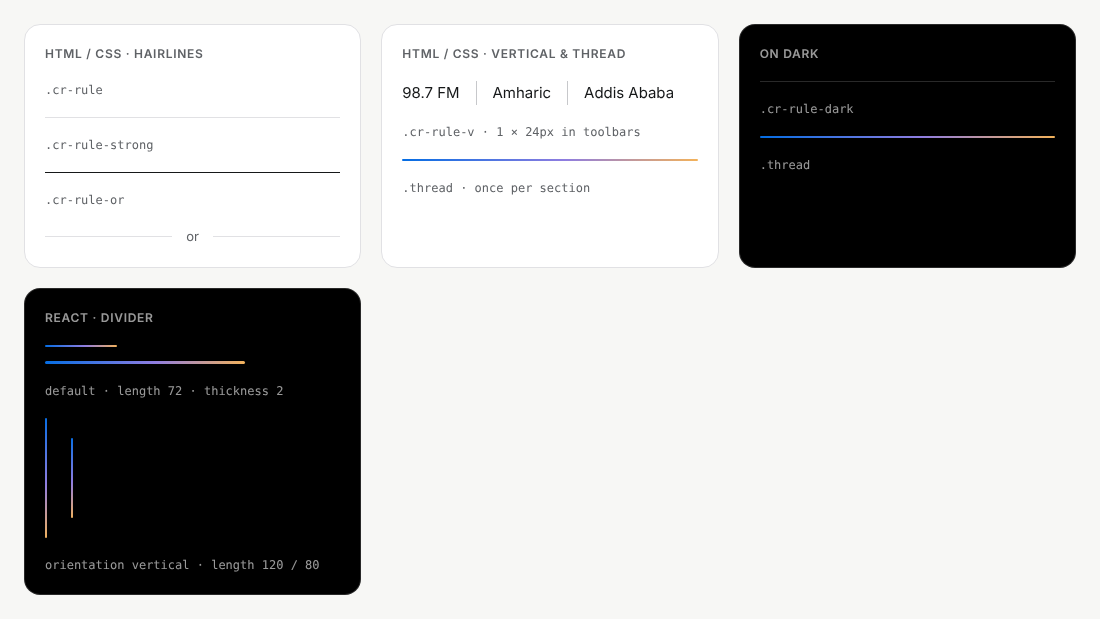
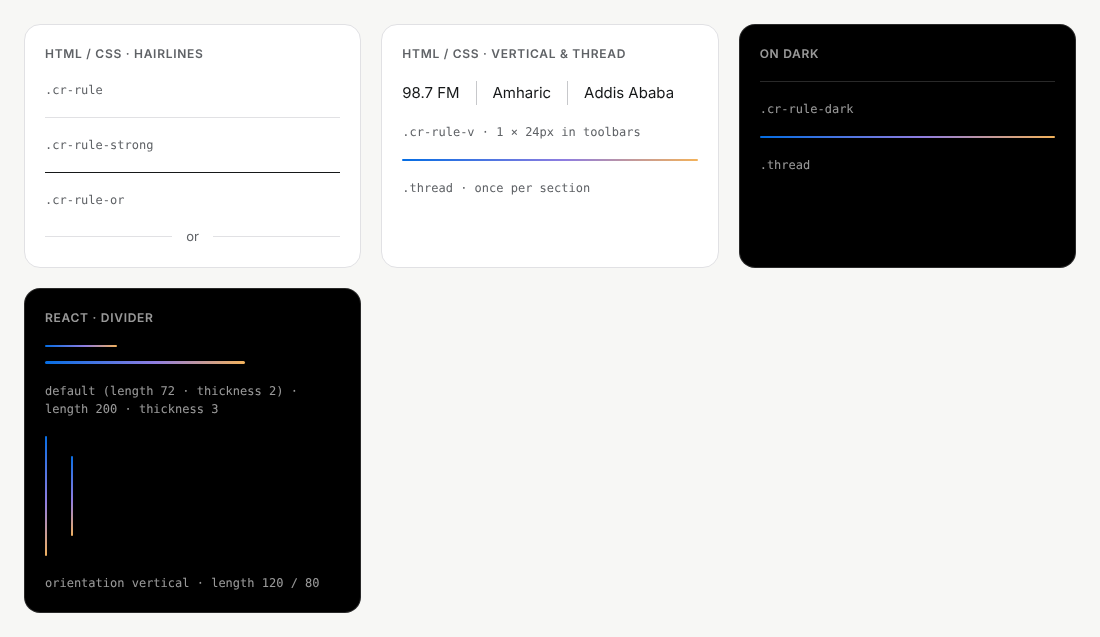
Render React specimens from the current @ism/ui source
The 13 previews with React specimens (AccentBar, Badge, Button, Card, Chip,
Divider, Eyebrow, Footer, IconButton, Input, Link, ListRow, SiteHeader) used
the stale legacy bundle, so the screenshots showed the old React look and the
SiteHeader/Footer logos were broken images.

- build-previews.mjs bundles packages/react/src with esbuild into
  docs/previews/vendor/ism-ui.js (IIFE, window.ISMUI), with react, react-dom
  and react/jsx-runtime mapped to the vendored React 18 globals. Deterministic,
  offline. The legacy bundle is no longer copied into docs/previews.
- Previews updated to the current component APIs (SiteHeader navigation,
  Footer columns, ChipGroup, IconButton, Link, Button icon), with real logos.
- Screenshot hashes now also cover packages/react/src, so component changes
  mark screenshots stale.
- Input on dark: .field>.input.fm-sub-input no longer stretches to 240px tall,
  and its label is readable on dark sections.
- esbuild is a declared root devDependency.
- Screenshots regenerated; npm run check passes.

Claude-Session: https://claude.ai/code/session_01S2rNQp6Xssw6p2iUmgAXK4

diff --git a/components/Footer/preview.html b/components/Footer/preview.html
@@ -16,7 +16,7 @@
 <div class="pv">
   <div class="pv-col">
     <div class="pv-sec">
-      <span class="pv-lbl">React · &lt;Footer /&gt; from the component bundle · shown at 78%</span>
+      <span class="pv-lbl">React · &lt;Footer /&gt; from @ism/ui · same content as the HTML footer below · shown at 78%</span>
       <div class="pv-zoom" id="nv-react-footer"></div>
     </div>
     <div class="pv-sec">
@@ -110,9 +110,25 @@
 <script>
 (function(){
   try{
-    var ns=window.ISMDesignSystem_106e83;
+    var ns=window.ISMUI;
     if(ns&&ns.Footer&&window.React&&window.ReactDOM){
-      ReactDOM.createRoot(document.getElementById('nv-react-footer')).render(React.createElement(ns.Footer,{ctaText:'Help deliver the Bible beyond every barrier.',ctaLabel:'Support Bible Access'}));
+      var h=React.createElement;
+      function col(heading,labels){ return {heading:heading,links:labels.map(function(l){ return {label:l,href:'#'}; })}; }
+      // Reuse the social glyphs of the HTML footer below.
+      var socials=[].map.call(document.querySelectorAll('.nv-foot .nv-socials')[0].children,function(a){
+        var svg=a.querySelector('svg');
+        return {name:a.getAttribute('aria-label'),href:'#',icon:h('svg',{viewBox:svg.getAttribute('viewBox'),'aria-hidden':true,dangerouslySetInnerHTML:{__html:svg.innerHTML}})};
+      });
+      ReactDOM.createRoot(document.getElementById('nv-react-footer')).render(h(ns.Footer,{logoSrc:'../../assets/logos/Full%20Logo%20Black.svg',logoHref:'#',
+        ctaText:'Help deliver the Bible beyond every barrier.',ctaLabel:'Support Bible Access',ctaHref:'#',
+        tagline:'Delivering unhindered access to the Bible until everyone can engage with Scripture in their own language, without barriers.',
+        socials:socials,
+        columns:[col('About',['About ISM','Our Mission','Our Team','Statement of Faith',"FAQ's"]),
+          col('Platforms',['dot.Bible App','ISM Radio','ISM Publishing','TAP Cards','Global Bible Network']),
+          col('Get Involved',['Give Online','Join The Mission','Partner With Us','Newsletter','Contact'])],
+        legal:['© 2026 – International Scripture Ministries Inc','ISM is a 501(c)(3) nonprofit organization. All donations are tax-deductible.'],
+        legalLinks:[{label:'Cookie Policy',href:'#'},{label:'Terms',href:'#'},{label:'Privacy',href:'#'}],
+        cookieSettingsLabel:'Cookie settings',onCookieSettings:function(){}}));
     }
   }catch(e){}
 })();

diff --git a/components/SiteHeader/preview.html b/components/SiteHeader/preview.html
@@ -18,7 +18,7 @@ body{margin:0}
 <div class="pv">
 
   <div class="pv-sec">
-    <span class="pv-lbl">React · &lt;SiteHeader /&gt; from the component bundle</span>
+    <span class="pv-lbl">React · &lt;SiteHeader /&gt; from @ism/ui · same navigation as the HTML bar below</span>
     <div id="nv-react" style="border-radius:12px;overflow:hidden;min-height:66px;background:var(--black)"></div>
   </div>
 
@@ -127,9 +127,20 @@ body{margin:0}
 (function(){
   var el=document.getElementById('nv-react');
   try{
-    var ns=window.ISMDesignSystem_106e83;
+    var ns=window.ISMUI;
     if(ns&&ns.SiteHeader&&window.React&&window.ReactDOM){
-      ReactDOM.createRoot(el).render(React.createElement(ns.SiteHeader));
+      var h=React.createElement;
+      var heart=h('svg',{width:15,height:15,viewBox:'0 0 24 24',fill:'currentColor','aria-hidden':true},h('path',{d:'M12 21s-7.5-4.6-9.6-9.4C1 8.4 3 5 6.4 5c2 0 3.6 1.1 4.6 2.6h2C14 6.1 15.6 5 17.6 5 21 5 23 8.4 21.6 11.6 19.5 16.4 12 21 12 21z'}));
+      ReactDOM.createRoot(el).render(h(ns.SiteHeader,{className:'nv-static',logoHref:'#',logoSrc:'../../assets/logos/Logo%20Black.svg',
+        give:h('a',{className:'btn btn-light btn-sm nv-give',href:'#'},heart,'Give'),
+        navigation:[
+          {label:'About ISM',href:'#',current:true,children:[{label:'Mission & Vision',href:'#'},{label:'Core Values',href:'#'},{label:'Our Team',href:'#'},{label:'Statement of Faith',href:'#'}]},
+          {label:'Resources',href:'#',overviewLabel:'Resources overview',overviewDescription:'All programs in one place',children:[
+            {label:'dot.Bible App',href:'#',description:'Free Bible apps in 500+ languages'},{label:'HD Radio Broadcast',href:'#',description:'Scripture on the airwaves'},
+            {label:'ISM Publishing',href:'#',description:'Print Bibles and study resources'},{label:'Share with NFC Cards',href:'#',description:'Tap a card to open the Bible'}]},
+          {label:'Global Network',href:'#'},
+          {label:'Join The Mission',href:'#',children:[{label:'Give Online',href:'#'},{label:'Partner With Us',href:'#'},{label:'Newsletter',href:'#'}]},
+          {label:'Contact',href:'#'}]}));
     }
   }catch(e){}
   var parents=document.querySelectorAll('.nv-dparent');

diff --git a/components/Chip/preview.html b/components/Chip/preview.html
@@ -29,9 +29,9 @@ body{margin:0;padding:24px;background:var(--off-white)}
     <span class="pv-c">single choice · sample amounts</span>
   </div>
   <div class="pv-box">
-    <span class="pv-h">React · className</span>
+    <span class="pv-h">React · ChipGroup</span>
     <div class="pv-row" id="r-chips"></div>
-    <span class="pv-c">no dedicated component: state drives aria-pressed</span>
+    <span class="pv-c">mode="multiple" · each Chip sets aria-pressed · click to try</span>
   </div>
 </div>
 <script>
@@ -44,17 +44,10 @@ body{margin:0;padding:24px;background:var(--off-white)}
     });
   }
   single('h-chips'); single('h-amt');
-  var NS = window.ISMDesignSystem_106e83; if(!NS || !window.React || !window.ReactDOM) return;
+  var NS = window.ISMUI; if(!NS || !window.React || !window.ReactDOM) return;
   var h = React.createElement;
-  function Langs(){
-    var s = React.useState(['Amharic']); var sel = s[0], set = s[1];
-    return h(React.Fragment,null,['Amharic','Burmese','Cebuano','Swahili'].map(function(l){
-      var on = sel.indexOf(l) > -1;
-      return h('button',{key:l,type:'button',className:'chip','aria-pressed':on ? 'true' : 'false',
-        onClick:function(){ set(on ? sel.filter(function(x){return x!==l;}) : sel.concat(l)); } },l);
-    }));
-  }
-  ReactDOM.createRoot(document.getElementById('r-chips')).render(h(Langs));
+  ReactDOM.createRoot(document.getElementById('r-chips')).render(h(NS.ChipGroup,{mode:'multiple','aria-label':'Languages',defaultValue:['Amharic'],
+    options:['Amharic','Burmese','Cebuano','Swahili'].map(function(l){ return {value:l,label:l}; })}));
 })();
 </script>
 </body></html>

diff --git a/components/IconButton/preview.html b/components/IconButton/preview.html
@@ -30,20 +30,20 @@ body{margin:0;padding:24px;background:var(--off-white)}
     </div>
   </div>
   <div class="pv-box">
-    <span class="pv-h">React · className</span>
+    <span class="pv-h">React · IconButton</span>
     <div class="pv-row" id="r-icon"></div>
-    <span class="pv-c">no dedicated component: render a button with the classes</span>
+    <span class="pv-c">tone light · tone solid, size lg · tone light</span>
   </div>
 </div>
 <script>
 (function(){
-  var NS = window.ISMDesignSystem_106e83; if(!NS || !window.React || !window.ReactDOM) return;
+  var NS = window.ISMUI; if(!NS || !window.React || !window.ReactDOM) return;
   var h = React.createElement;
   function ic(d){ return h('svg',{width:20,height:20,viewBox:'0 0 24 24',fill:'none',stroke:'currentColor',strokeWidth:1.8,strokeLinecap:'round',strokeLinejoin:'round','aria-hidden':true},h('path',{d:d})); }
   ReactDOM.createRoot(document.getElementById('r-icon')).render(h(React.Fragment,null,
-    h('button',{type:'button',className:'iconbtn cr-iconbtn-light','aria-label':'Previous chapter'},ic('M15 6l-6 6 6 6')),
-    h('button',{type:'button',className:'iconbtn cr-iconbtn-lg cr-iconbtn-solid','aria-label':'Play'},ic('M8 5v14l11-7z')),
-    h('button',{type:'button',className:'iconbtn cr-iconbtn-light','aria-label':'Next chapter'},ic('M9 6l6 6-6 6'))));
+    h(NS.IconButton,{tone:'light','aria-label':'Previous chapter'},ic('M15 6l-6 6 6 6')),
+    h(NS.IconButton,{tone:'solid',size:'lg','aria-label':'Play'},ic('M8 5v14l11-7z')),
+    h(NS.IconButton,{tone:'light','aria-label':'Next chapter'},ic('M9 6l6 6-6 6'))));
 })();
 </script>
 </body></html>

diff --git a/components/ListRow/preview.html b/components/ListRow/preview.html
@@ -5,8 +5,8 @@ body{margin:0;padding:24px;background:var(--off-white)}
 .pv-col{display:flex;flex-direction:column;gap:10px;min-width:0}
 .pv-h{font-size:12px;font-weight:600;letter-spacing:.06em;text-transform:uppercase;color:var(--gray-600)}
 .pv-c{font-size:12px;color:var(--gray-600);font-family:ui-monospace,Menlo,monospace;padding:0 4px}
-.pv-dk{background:var(--black);border-radius:20px;padding:8px 20px;color:var(--white)}
-.pv-lt{background:var(--white);border:1px solid var(--gray-200);border-radius:20px;padding:8px 20px}
+.pv-dk{background:var(--black);border-radius:20px;padding:8px 0;color:var(--white)}
+.pv-lt{background:var(--white);border:1px solid var(--gray-200);border-radius:20px;padding:8px 0}
 </style></head><body>
 <div class="pv">
   <div class="pv-col">
@@ -93,7 +93,7 @@ body{margin:0;padding:24px;background:var(--off-white)}
       sw.setAttribute('aria-checked', sw.getAttribute('aria-checked')==='true'?'false':'true');
     });
   });
-  var NS = window.ISMDesignSystem_106e83; if(!NS || !window.React || !window.ReactDOM) return;
+  var NS = window.ISMUI; if(!NS || !window.React || !window.ReactDOM) return;
   var h = React.createElement;
   function ic(){ return h('svg',{width:18,height:18,viewBox:'0 0 24 24',fill:'none',stroke:'currentColor',strokeWidth:1.8,strokeLinecap:'round',strokeLinejoin:'round','aria-hidden':true},
     h('path',{d:'M5 12.5a7 7 0 0 1 14 0'}),h('path',{d:'M3 13h4v6H3zM17 13h4v6h-4z'})); }

diff --git a/components/Input/preview.html b/components/Input/preview.html
@@ -36,8 +36,8 @@ body{margin:0;padding:24px;background:var(--off-white)}
     <div class="pv-box">
       <span class="pv-h">React · Input</span>
       <div id="r-light" style="display:flex;flex-direction:column;gap:16px"></div>
-      <div class="pv-box pv-dk" style="padding:20px">
-        <span class="pv-h">React · dark</span>
+      <div class="pv-box pv-dk on-dark" style="padding:20px">
+        <span class="pv-h">React · dark · inside .on-dark</span>
         <div id="r-dark" style="display:flex;flex-direction:column;gap:16px"></div>
       </div>
     </div>
@@ -45,7 +45,7 @@ body{margin:0;padding:24px;background:var(--off-white)}
 </div>
 <script>
 (function(){
-  var NS = window.ISMDesignSystem_106e83; if(!NS || !window.React || !window.ReactDOM) return;
+  var NS = window.ISMUI; if(!NS || !window.React || !window.ReactDOM) return;
   var h = React.createElement;
   ReactDOM.createRoot(document.getElementById('r-light')).render(h(React.Fragment,null,
     h(NS.Input,{label:'Email',placeholder:'you@example.com',type:'email'}),

diff --git a/components/Link/preview.html b/components/Link/preview.html
@@ -28,17 +28,17 @@ body{margin:0;padding:24px;background:var(--off-white)}
     <div style="display:flex;gap:20px"><a class="navlink" href="#" aria-current="page">About ISM</a><a class="navlink" href="#">Resources</a></div>
   </div>
   <div class="pv-box">
-    <span class="pv-h">React · Button ghost</span>
+    <span class="pv-h">React · Link ghost</span>
     <div id="r-link"></div>
-    <span class="pv-c">variant="ghost" with a ↗ icon</span>
+    <span class="pv-c">variant="ghost" · arrow</span>
   </div>
 </div>
 <script>
 (function(){
-  var NS = window.ISMDesignSystem_106e83; if(!NS || !window.React || !window.ReactDOM) return;
+  var NS = window.ISMUI; if(!NS || !window.React || !window.ReactDOM) return;
   var h = React.createElement;
   ReactDOM.createRoot(document.getElementById('r-link')).render(
-    h(NS.Button,{variant:'ghost',icon:h('span',{className:'arrow','aria-hidden':true},'↗')},'Browse All'));
+    h(NS.Link,{variant:'ghost',arrow:true,href:'#'},'Browse All'));
 })();
 </script>
 </body></html>

diff --git a/packages/web/css/bundle.css b/packages/web/css/bundle.css
@@ -571,6 +571,9 @@ span.fm-ti{display:flex;align-items:center}
 .fm-vh{position:absolute;width:1px;height:1px;padding:0;margin:-1px;overflow:hidden;clip:rect(0,0,0,0);white-space:nowrap;border:0}
 .on-dark .input.fm-sub-input,.sec-ink .input.fm-sub-input{background:rgba(255,255,255,.06);border-color:rgba(255,255,255,.3);color:var(--white)}
 .on-dark .input.fm-sub-input::placeholder,.sec-ink .input.fm-sub-input::placeholder{color:var(--text-tertiary-dark)}
+/* The same translucent field as a stacked Input (React <Input dark>): no row flex-basis in the .field column, light label */
+.field>.input.fm-sub-input{flex:none}
+.on-dark .field:has(>.input.fm-sub-input)>.label,.sec-ink .field:has(>.input.fm-sub-input)>.label{color:rgba(255,255,255,.78)}
 
 /* InlineSubscribe: message line, error and success on light and dark */
 .fm-sub-wrap{display:flex;flex-direction:column;gap:8px}

diff --git a/packages/web/css/ism.css b/packages/web/css/ism.css
@@ -759,6 +759,9 @@ span.fm-ti{display:flex;align-items:center}
 .fm-vh{position:absolute;width:1px;height:1px;padding:0;margin:-1px;overflow:hidden;clip:rect(0,0,0,0);white-space:nowrap;border:0}
 .on-dark .input.fm-sub-input,.sec-ink .input.fm-sub-input{background:rgba(255,255,255,.06);border-color:rgba(255,255,255,.3);color:var(--white)}
 .on-dark .input.fm-sub-input::placeholder,.sec-ink .input.fm-sub-input::placeholder{color:var(--text-tertiary-dark)}
+/* The same translucent field as a stacked Input (React <Input dark>): no row flex-basis in the .field column, light label */
+.field>.input.fm-sub-input{flex:none}
+.on-dark .field:has(>.input.fm-sub-input)>.label,.sec-ink .field:has(>.input.fm-sub-input)>.label{color:rgba(255,255,255,.78)}
 
 /* InlineSubscribe: message line, error and success on light and dark */
 .fm-sub-wrap{display:flex;flex-direction:column;gap:8px}

diff --git a/components/Divider/preview.html b/components/Divider/preview.html
@@ -37,14 +37,14 @@ body{margin:0;padding:24px;background:var(--off-white)}
   <div class="pv-box pv-dk">
     <span class="pv-h">React · Divider</span>
     <div id="r-h"></div>
-    <span class="pv-c">default · length 72 · thickness 2</span>
+    <span class="pv-c">default (length 72 · thickness 2) · length 200 · thickness 3</span>
     <div class="pv-vert" id="r-v"></div>
     <span class="pv-c">orientation vertical · length 120 / 80</span>
   </div>
 </div>
 <script>
 (function(){
-  var NS = window.ISMDesignSystem_106e83; if(!NS || !window.React || !window.ReactDOM) return;
+  var NS = window.ISMUI; if(!NS || !window.React || !window.ReactDOM) return;
   var h = React.createElement;
   ReactDOM.createRoot(document.getElementById('r-h')).render(h('div',{ style: { display:'flex', flexDirection:'column', gap:14 } },
     h(NS.Divider,null),

diff --git a/components/Button/preview.html b/components/Button/preview.html
@@ -57,9 +57,9 @@ body{margin:0;padding:24px;background:var(--off-white)}
 </div>
 <script>
 (function(){
-  var NS = window.ISMDesignSystem_106e83; if(!NS || !window.React || !window.ReactDOM) return;
+  var NS = window.ISMUI; if(!NS || !window.React || !window.ReactDOM) return;
   var h = React.createElement;
-  var arrow = h('span',{className:'arrow','aria-hidden':true},'↗');
+  var arrow = '↗';
   ReactDOM.createRoot(document.getElementById('r-light')).render(h(React.Fragment,null,
     h(NS.Button,{variant:'primary'},'Get Started'),
     h(NS.Button,{variant:'outlineLight'},'Learn about ISM'),

diff --git a/components/Card/preview.html b/components/Card/preview.html
@@ -108,7 +108,7 @@ body{margin:0;padding:24px;background:var(--off-white)}
 </div>
 <script>
 (function(){
-  var NS = window.ISMDesignSystem_106e83; if(!NS || !window.React || !window.ReactDOM) return;
+  var NS = window.ISMUI; if(!NS || !window.React || !window.ReactDOM) return;
   var h = React.createElement;
   ReactDOM.createRoot(document.getElementById('r-card')).render(
     h(NS.Card,{image:'../../assets/imagery/deck-photo-listeners.png',eyebrow:'Explore',title:'The New Testament',subtitle:'Matthew through Revelation',height:300}));
